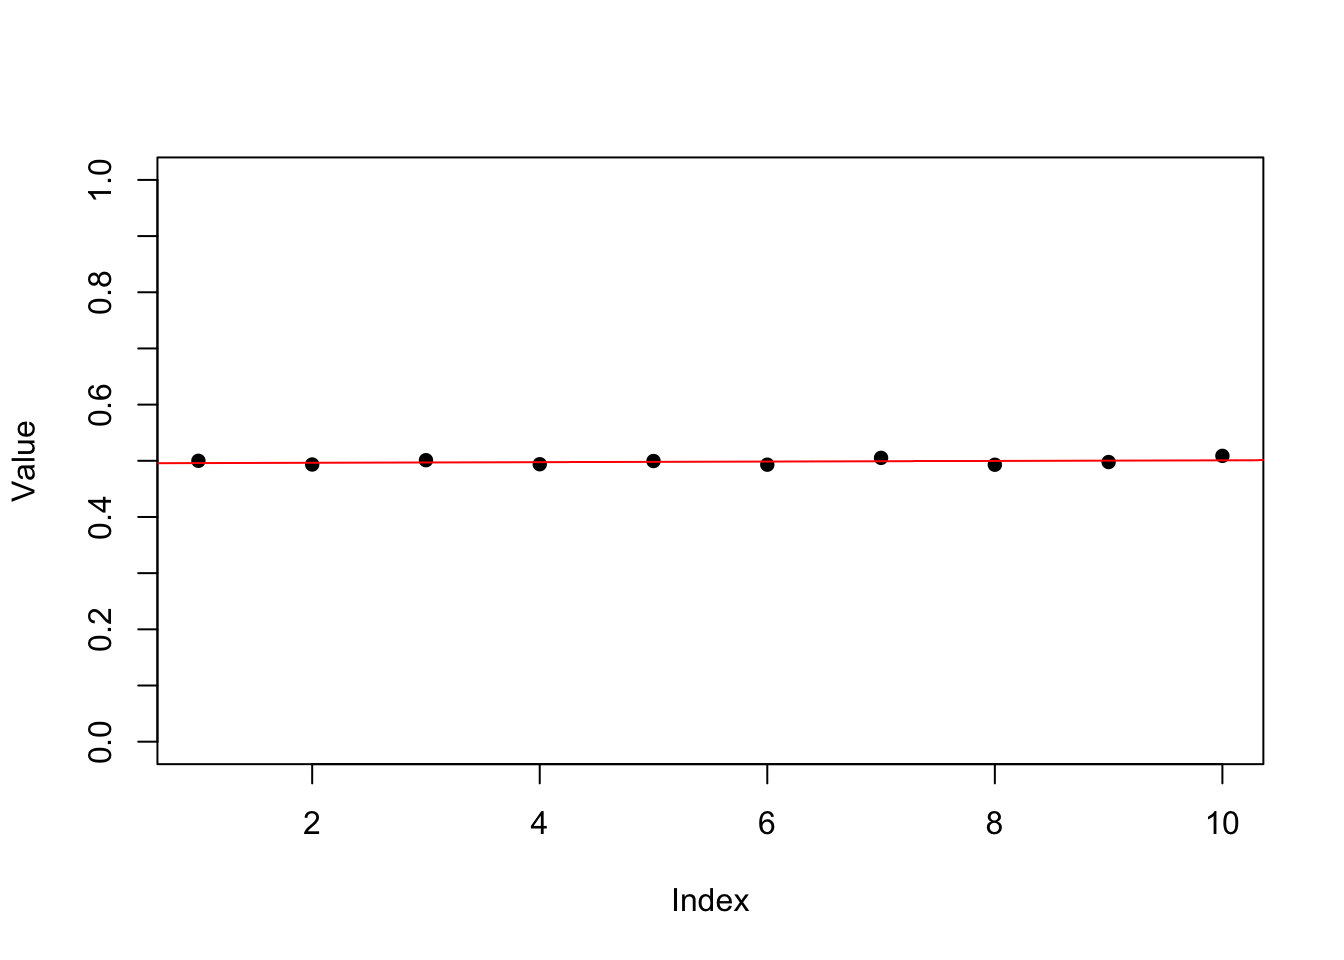
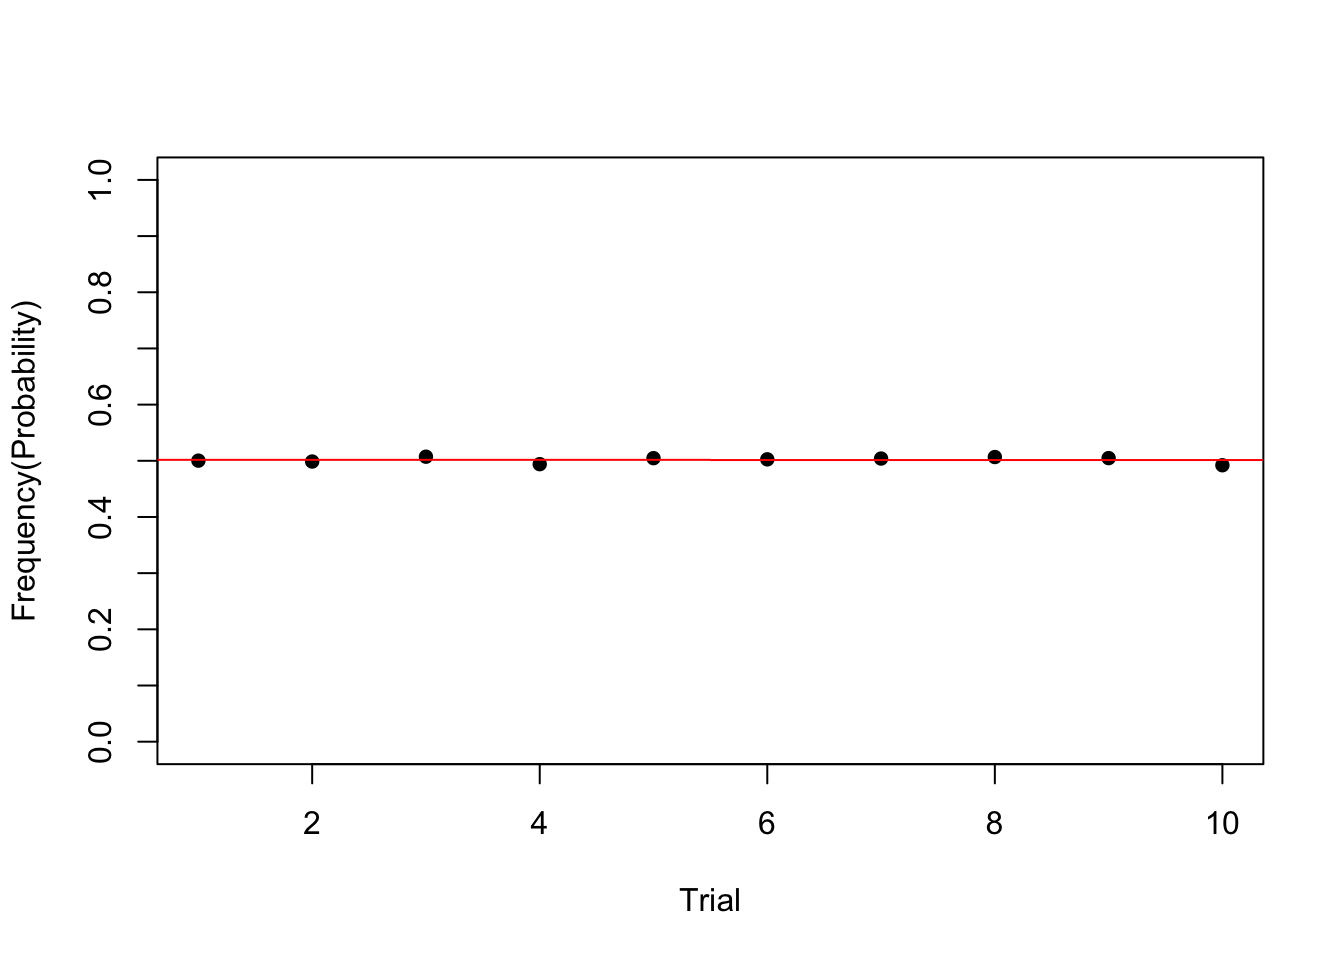
Modified image and output accordingly

diff --git a/content/post/2023-04-24-probability-of-triangle/index.md b/content/post/2023-04-24-probability-of-triangle/index.md
@@ -80,16 +80,16 @@ print(mult.result)
 
 ```
 ##         [,1]
-##  [1,] 0.5000
-##  [2,] 0.4934
-##  [3,] 0.5011
-##  [4,] 0.4939
-##  [5,] 0.4996
-##  [6,] 0.4931
-##  [7,] 0.5052
-##  [8,] 0.4930
-##  [9,] 0.4978
-## [10,] 0.5088
+##  [1,] 0.5003
+##  [2,] 0.4987
+##  [3,] 0.5073
+##  [4,] 0.4940
+##  [5,] 0.5047
+##  [6,] 0.5026
+##  [7,] 0.5040
+##  [8,] 0.5067
+##  [9,] 0.5048
+## [10,] 0.4921
 ```
 
 可以看到，结果在逼近于 0.5。我们对结果数据进行拟合，并画图展示。
@@ -107,7 +107,7 @@ y_ticks <- seq(0, 1, by = 0.1)
 
 # plot: do not use default y_ticks
 plot(df$x, df$y, pch = 16, col = "black",
-  xlab = "Index", ylab = "Value",
+  xlab = "Trial", ylab = "Frequency(Probability)",
   ylim = c(0, 1), yaxt = "n"
 )
 # set y_ticks
